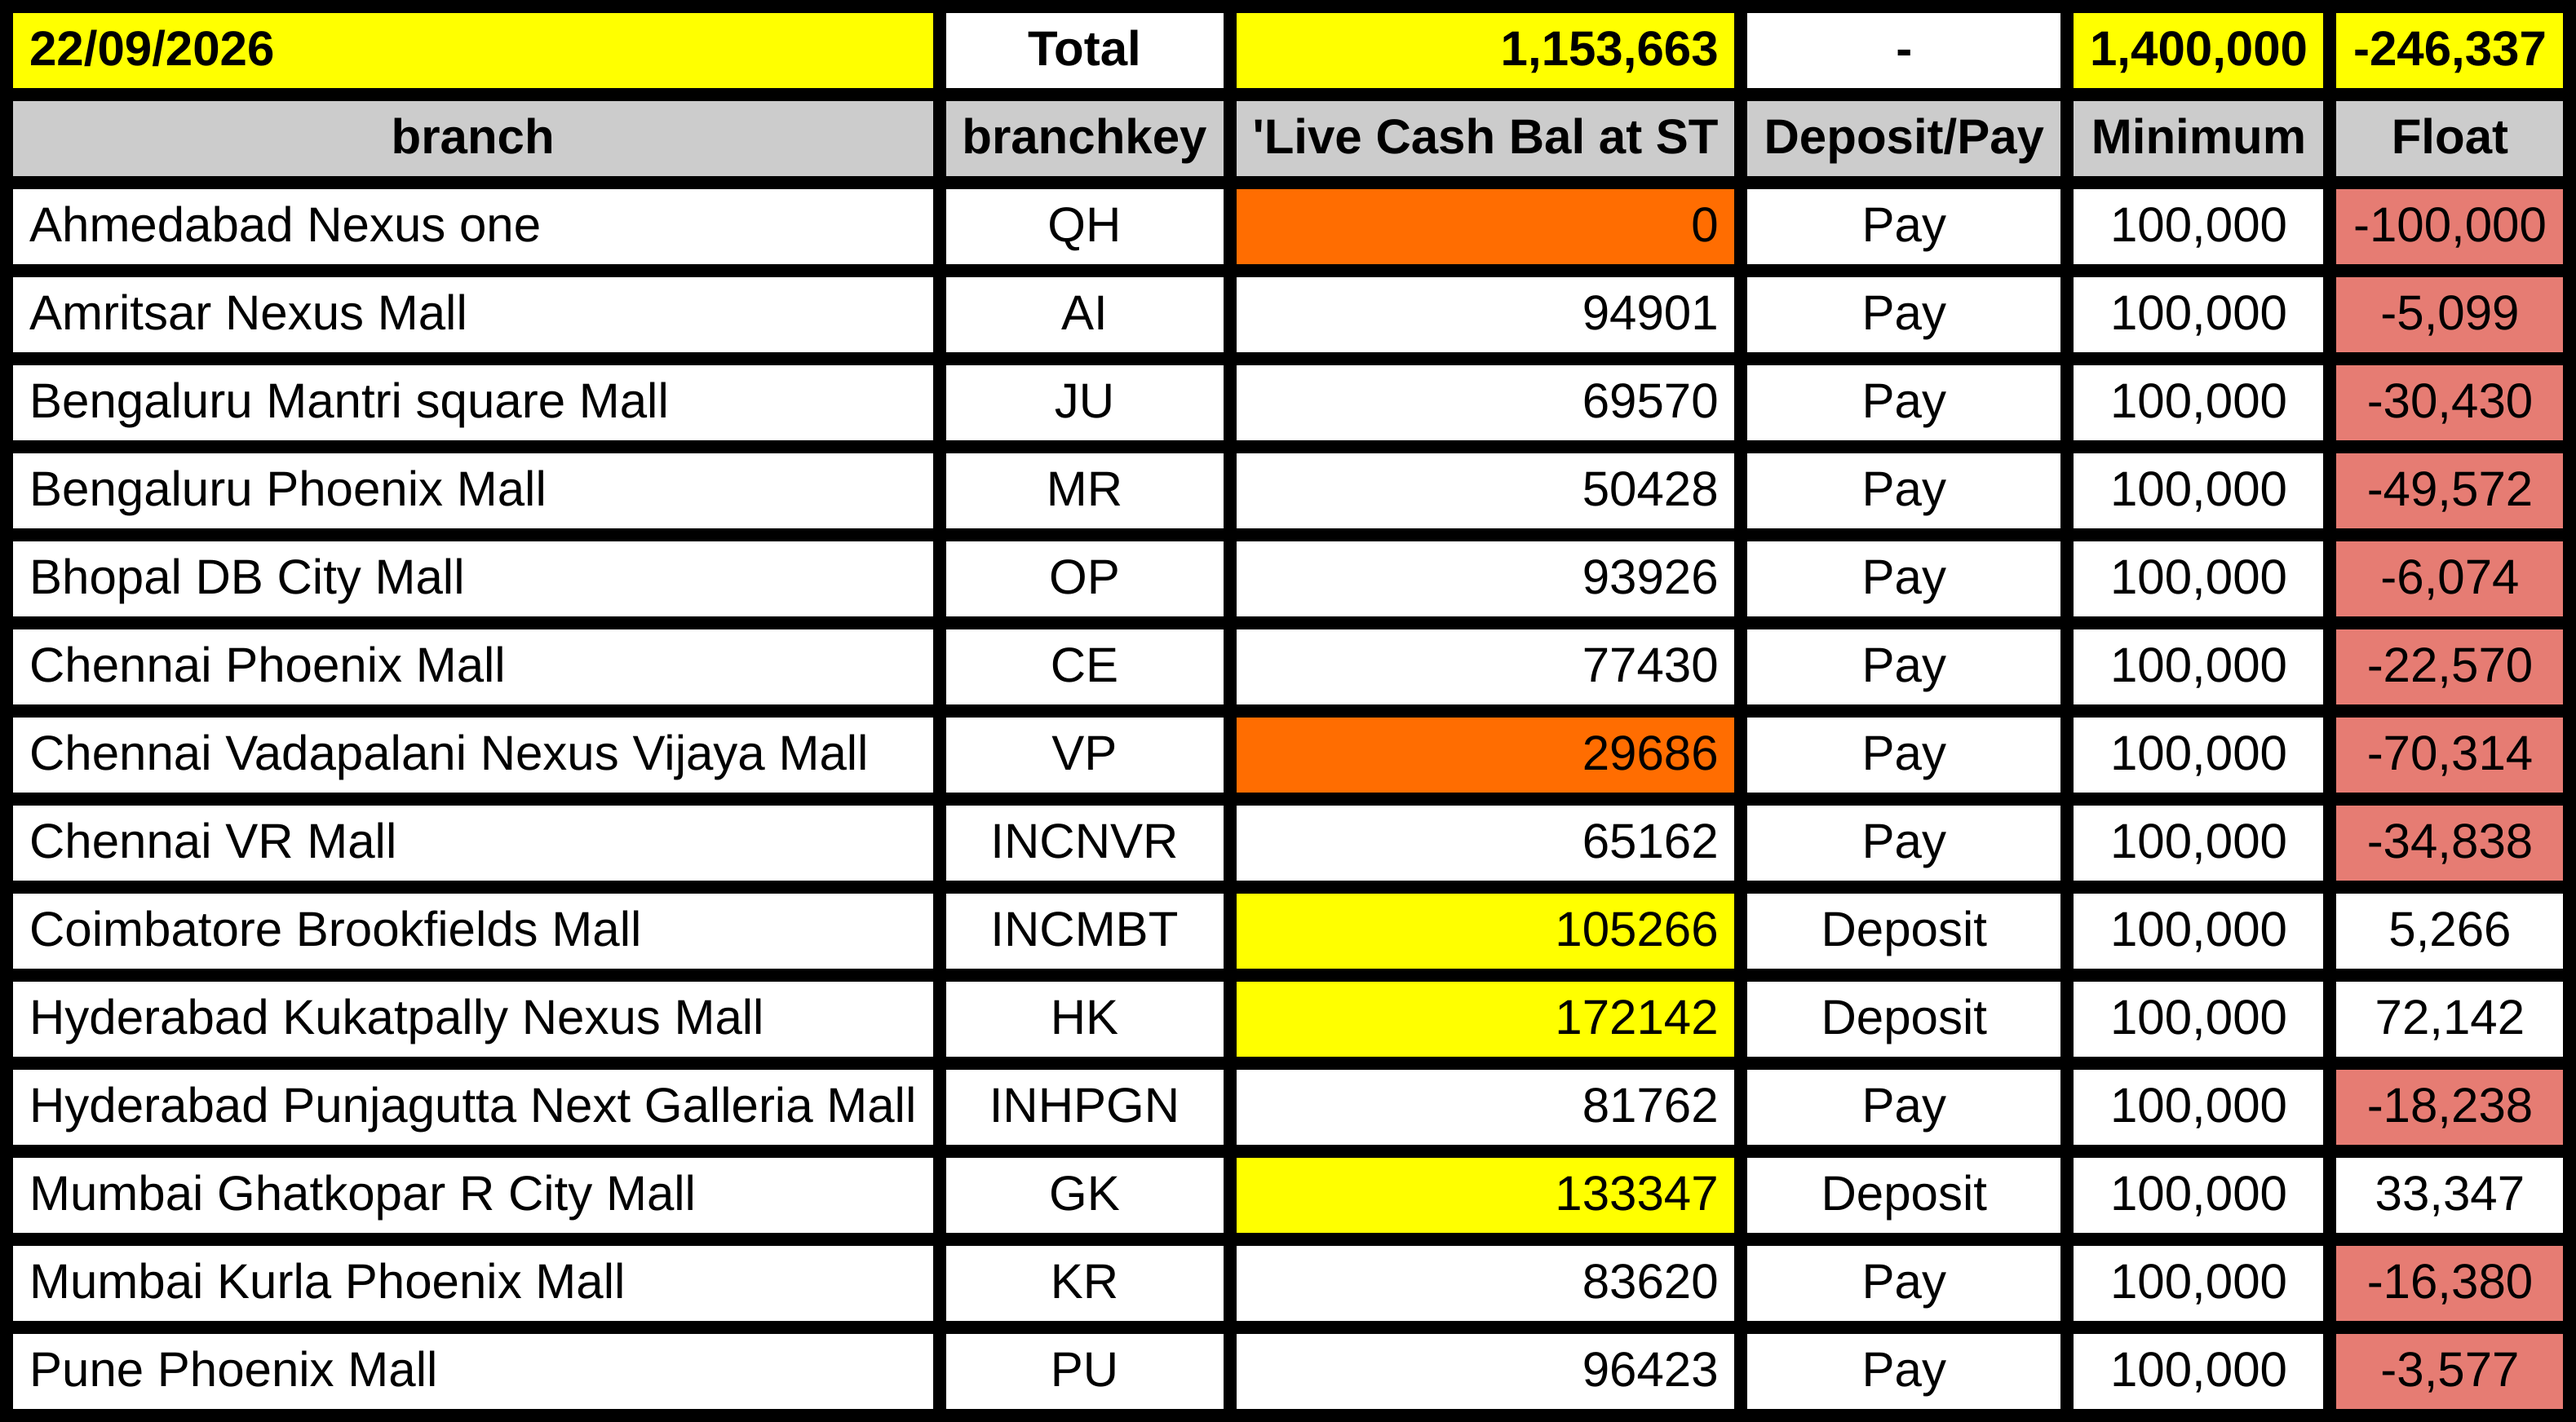
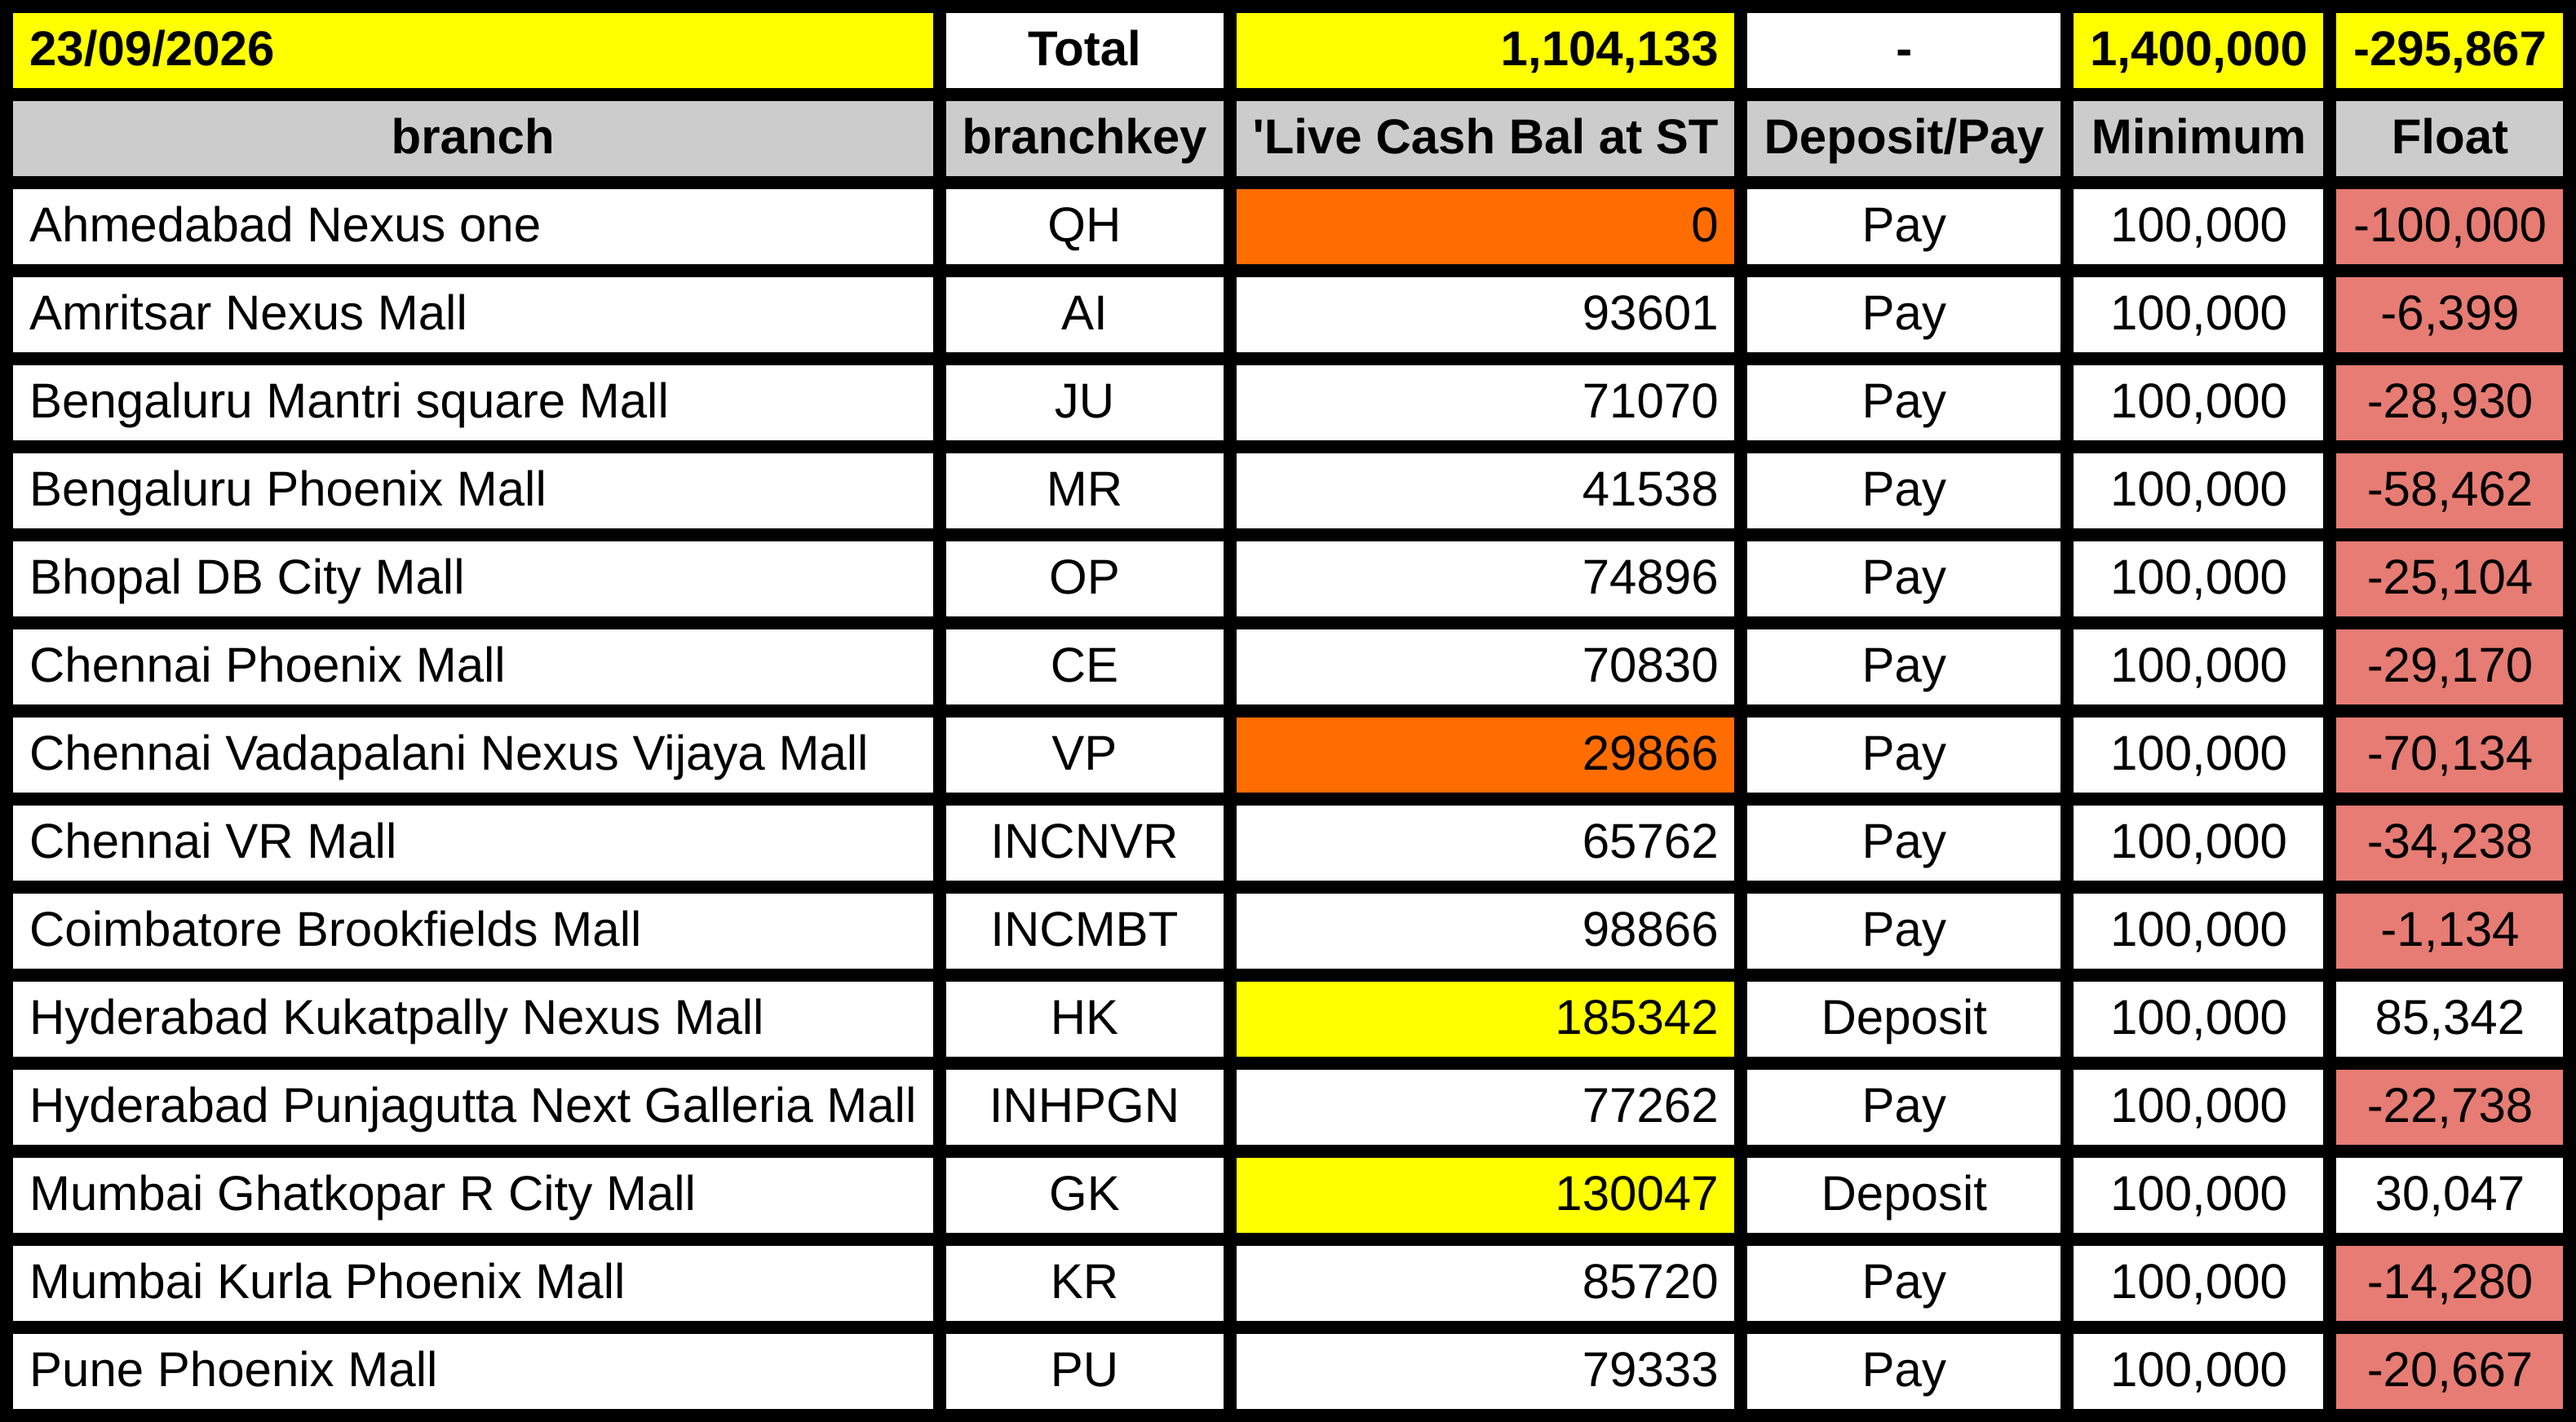
deploy: 1eb6ce62876c9d41067b4594acfaffc291ee4c8b

diff --git a/table.html b/table.html
@@ -21,7 +21,7 @@
           font-family: Arial, sans-serif;
           font-size: 30px;
           white-space: nowrap;
-        ">22/09/2026</td>
+        ">23/09/2026</td>
       
         <td style="
           background-color: #ffffff;
@@ -49,7 +49,7 @@
           font-family: Arial, sans-serif;
           font-size: 30px;
           white-space: nowrap;
-        ">1,153,663</td>
+        ">1,104,133</td>
       
         <td style="
           background-color: #ffffff;
@@ -91,7 +91,7 @@
           font-family: Arial, sans-serif;
           font-size: 30px;
           white-space: nowrap;
-        ">-246,337</td>
+        ">-295,867</td>
       </tr><tr>
         <td style="
           background-color: #cccccc;
@@ -301,7 +301,7 @@
           font-family: Arial, sans-serif;
           font-size: 30px;
           white-space: nowrap;
-        ">94901</td>
+        ">93601</td>
       
         <td style="
           background-color: #ffffff;
@@ -343,7 +343,7 @@
           font-family: Arial, sans-serif;
           font-size: 30px;
           white-space: nowrap;
-        ">-5,099</td>
+        ">-6,399</td>
       </tr><tr>
         <td style="
           background-color: #ffffff;
@@ -385,7 +385,7 @@
           font-family: Arial, sans-serif;
           font-size: 30px;
           white-space: nowrap;
-        ">69570</td>
+        ">71070</td>
       
         <td style="
           background-color: #ffffff;
@@ -427,7 +427,7 @@
           font-family: Arial, sans-serif;
           font-size: 30px;
           white-space: nowrap;
-        ">-30,430</td>
+        ">-28,930</td>
       </tr><tr>
         <td style="
           background-color: #ffffff;
@@ -469,7 +469,7 @@
           font-family: Arial, sans-serif;
           font-size: 30px;
           white-space: nowrap;
-        ">50428</td>
+        ">41538</td>
       
         <td style="
           background-color: #ffffff;
@@ -511,7 +511,7 @@
           font-family: Arial, sans-serif;
           font-size: 30px;
           white-space: nowrap;
-        ">-49,572</td>
+        ">-58,462</td>
       </tr><tr>
         <td style="
           background-color: #ffffff;
@@ -553,7 +553,7 @@
           font-family: Arial, sans-serif;
           font-size: 30px;
           white-space: nowrap;
-        ">93926</td>
+        ">74896</td>
       
         <td style="
           background-color: #ffffff;
@@ -595,7 +595,7 @@
           font-family: Arial, sans-serif;
           font-size: 30px;
           white-space: nowrap;
-        ">-6,074</td>
+        ">-25,104</td>
       </tr><tr>
         <td style="
           background-color: #ffffff;
@@ -637,7 +637,7 @@
           font-family: Arial, sans-serif;
           font-size: 30px;
           white-space: nowrap;
-        ">77430</td>
+        ">70830</td>
       
         <td style="
           background-color: #ffffff;
@@ -679,7 +679,7 @@
           font-family: Arial, sans-serif;
           font-size: 30px;
           white-space: nowrap;
-        ">-22,570</td>
+        ">-29,170</td>
       </tr><tr>
         <td style="
           background-color: #ffffff;
@@ -721,7 +721,7 @@
           font-family: Arial, sans-serif;
           font-size: 30px;
           white-space: nowrap;
-        ">29686</td>
+        ">29866</td>
       
         <td style="
           background-color: #ffffff;
@@ -763,7 +763,7 @@
           font-family: Arial, sans-serif;
           font-size: 30px;
           white-space: nowrap;
-        ">-70,314</td>
+        ">-70,134</td>
       </tr><tr>
         <td style="
           background-color: #ffffff;
@@ -805,7 +805,7 @@
           font-family: Arial, sans-serif;
           font-size: 30px;
           white-space: nowrap;
-        ">65162</td>
+        ">65762</td>
       
         <td style="
           background-color: #ffffff;
@@ -847,7 +847,7 @@
           font-family: Arial, sans-serif;
           font-size: 30px;
           white-space: nowrap;
-        ">-34,838</td>
+        ">-34,238</td>
       </tr><tr>
         <td style="
           background-color: #ffffff;
@@ -878,7 +878,7 @@
         ">INCMBT</td>
       
         <td style="
-          background-color: #ffff00;
+          background-color: #ffffff;
           color: #000000;
           font-weight: normal;
           font-style: normal;
@@ -889,7 +889,7 @@
           font-family: Arial, sans-serif;
           font-size: 30px;
           white-space: nowrap;
-        ">105266</td>
+        ">98866</td>
       
         <td style="
           background-color: #ffffff;
@@ -903,7 +903,7 @@
           font-family: Arial, sans-serif;
           font-size: 30px;
           white-space: nowrap;
-        ">Deposit</td>
+        ">Pay</td>
       
         <td style="
           background-color: #ffffff;
@@ -920,7 +920,7 @@
         ">100,000</td>
       
         <td style="
-          background-color: #ffffff;
+          background-color: #e67c73;
           color: #000000;
           font-weight: normal;
           font-style: normal;
@@ -931,7 +931,7 @@
           font-family: Arial, sans-serif;
           font-size: 30px;
           white-space: nowrap;
-        ">5,266</td>
+        ">-1,134</td>
       </tr><tr>
         <td style="
           background-color: #ffffff;
@@ -973,7 +973,7 @@
           font-family: Arial, sans-serif;
           font-size: 30px;
           white-space: nowrap;
-        ">172142</td>
+        ">185342</td>
       
         <td style="
           background-color: #ffffff;
@@ -1015,7 +1015,7 @@
           font-family: Arial, sans-serif;
           font-size: 30px;
           white-space: nowrap;
-        ">72,142</td>
+        ">85,342</td>
       </tr><tr>
         <td style="
           background-color: #ffffff;
@@ -1057,7 +1057,7 @@
           font-family: Arial, sans-serif;
           font-size: 30px;
           white-space: nowrap;
-        ">81762</td>
+        ">77262</td>
       
         <td style="
           background-color: #ffffff;
@@ -1099,7 +1099,7 @@
           font-family: Arial, sans-serif;
           font-size: 30px;
           white-space: nowrap;
-        ">-18,238</td>
+        ">-22,738</td>
       </tr><tr>
         <td style="
           background-color: #ffffff;
@@ -1141,7 +1141,7 @@
           font-family: Arial, sans-serif;
           font-size: 30px;
           white-space: nowrap;
-        ">133347</td>
+        ">130047</td>
       
         <td style="
           background-color: #ffffff;
@@ -1183,7 +1183,7 @@
           font-family: Arial, sans-serif;
           font-size: 30px;
           white-space: nowrap;
-        ">33,347</td>
+        ">30,047</td>
       </tr><tr>
         <td style="
           background-color: #ffffff;
@@ -1225,7 +1225,7 @@
           font-family: Arial, sans-serif;
           font-size: 30px;
           white-space: nowrap;
-        ">83620</td>
+        ">85720</td>
       
         <td style="
           background-color: #ffffff;
@@ -1267,7 +1267,7 @@
           font-family: Arial, sans-serif;
           font-size: 30px;
           white-space: nowrap;
-        ">-16,380</td>
+        ">-14,280</td>
       </tr><tr>
         <td style="
           background-color: #ffffff;
@@ -1309,7 +1309,7 @@
           font-family: Arial, sans-serif;
           font-size: 30px;
           white-space: nowrap;
-        ">96423</td>
+        ">79333</td>
       
         <td style="
           background-color: #ffffff;
@@ -1351,7 +1351,7 @@
           font-family: Arial, sans-serif;
           font-size: 30px;
           white-space: nowrap;
-        ">-3,577</td>
+        ">-20,667</td>
       </tr>
   </table>
 </body>
